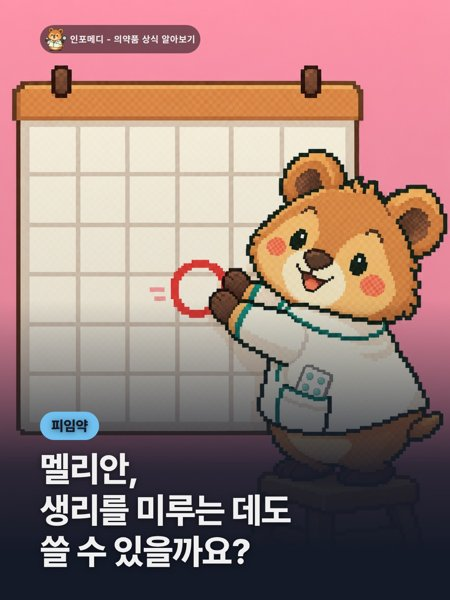
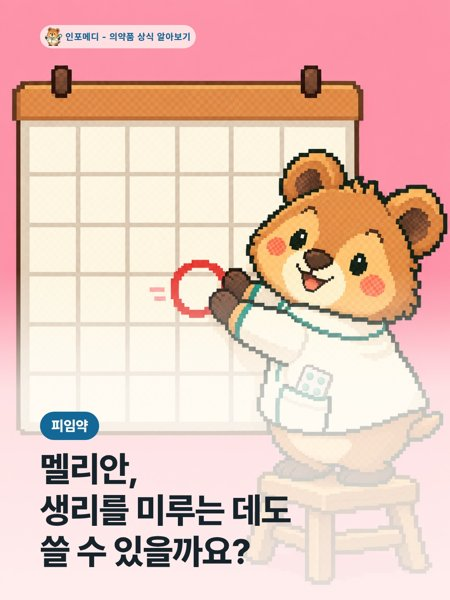
links

diff --git a/index.html b/index.html
@@ -34,7 +34,7 @@
 <section class="section">
 <h2>의약품 정보 <small id="count"></small></h2>
 <div class="grid" id="list">
-<a class="item" href="https://blog.naver.com/info_medi_/224427697032"><img src="c/멜리안-white.jpg" alt="" loading="lazy">
+<a class="item" href="https://blog.naver.com/info_medi_/224427697032"><img src="c/멜리안.jpg" alt="" loading="lazy">
 <span><b>멜리안, 생리를 미루는 데도 쓸 수 있을까요?</b><small><time datetime="2026-10-14 23:27"></time></small></span></a>
 <a class="item" href="https://blog.naver.com/info_medi_/224429337046"><img src="c/알레드정.jpg" alt="" loading="lazy">
 <span><b>알레드정, 비염약일까요, 피부약일까요?</b><small><time datetime="2026-10-14 13:45"></time></small></span></a>
